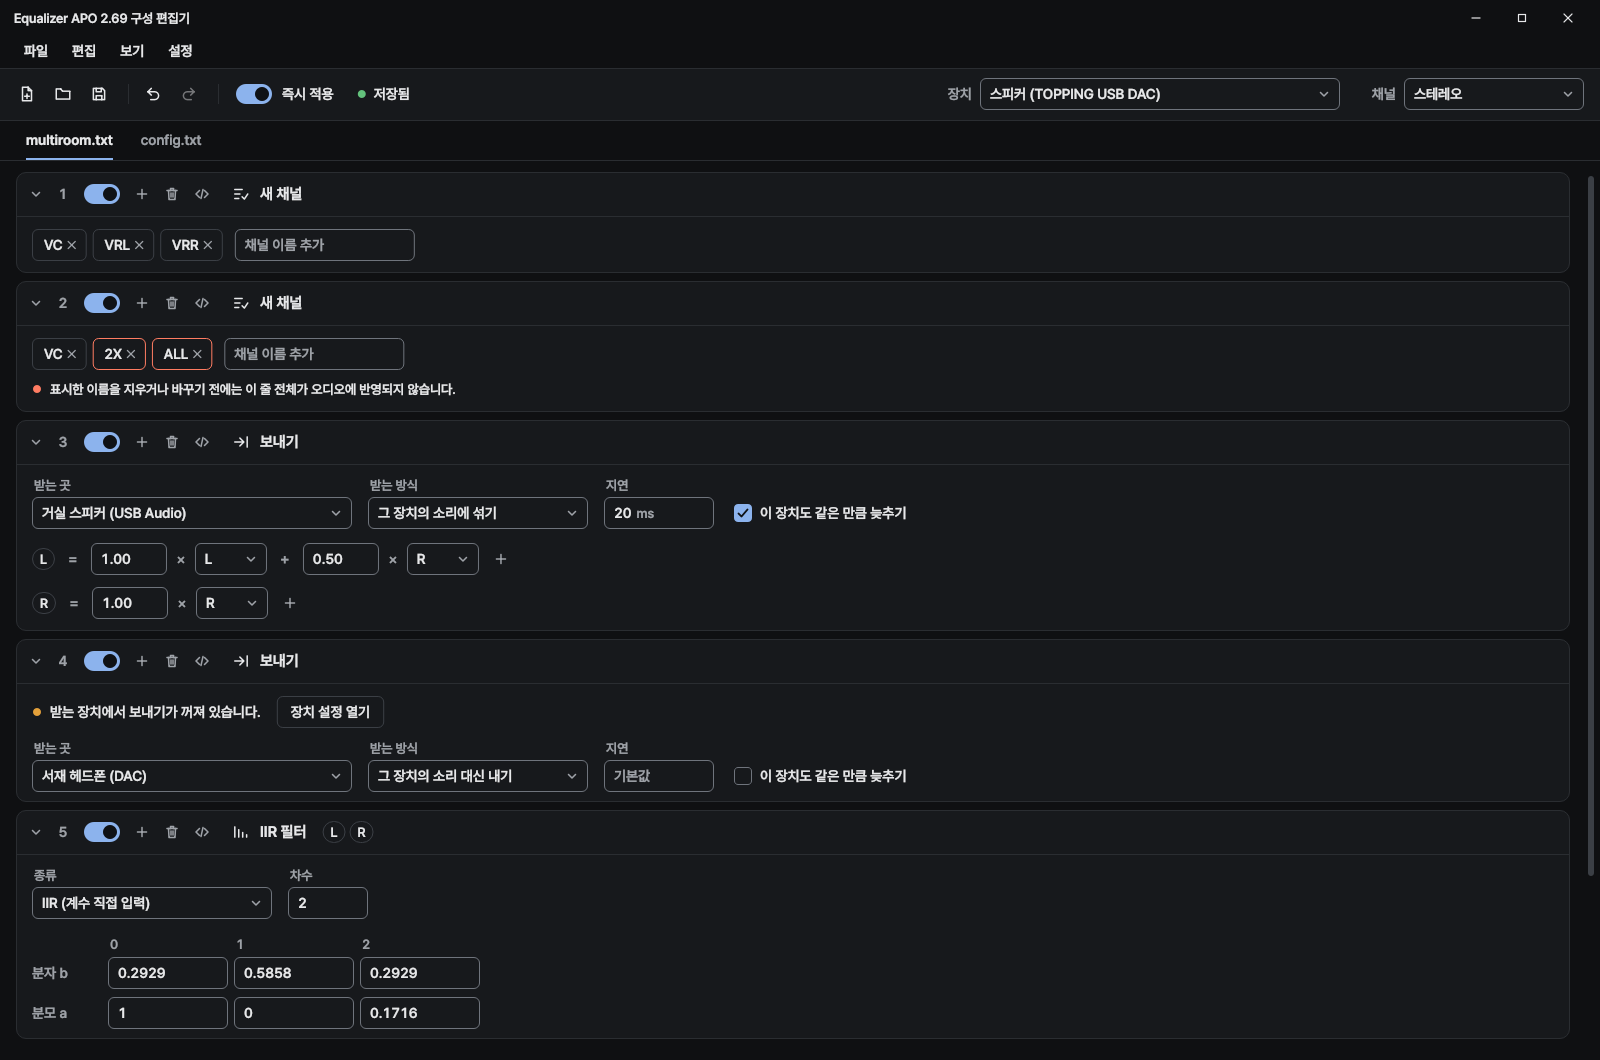
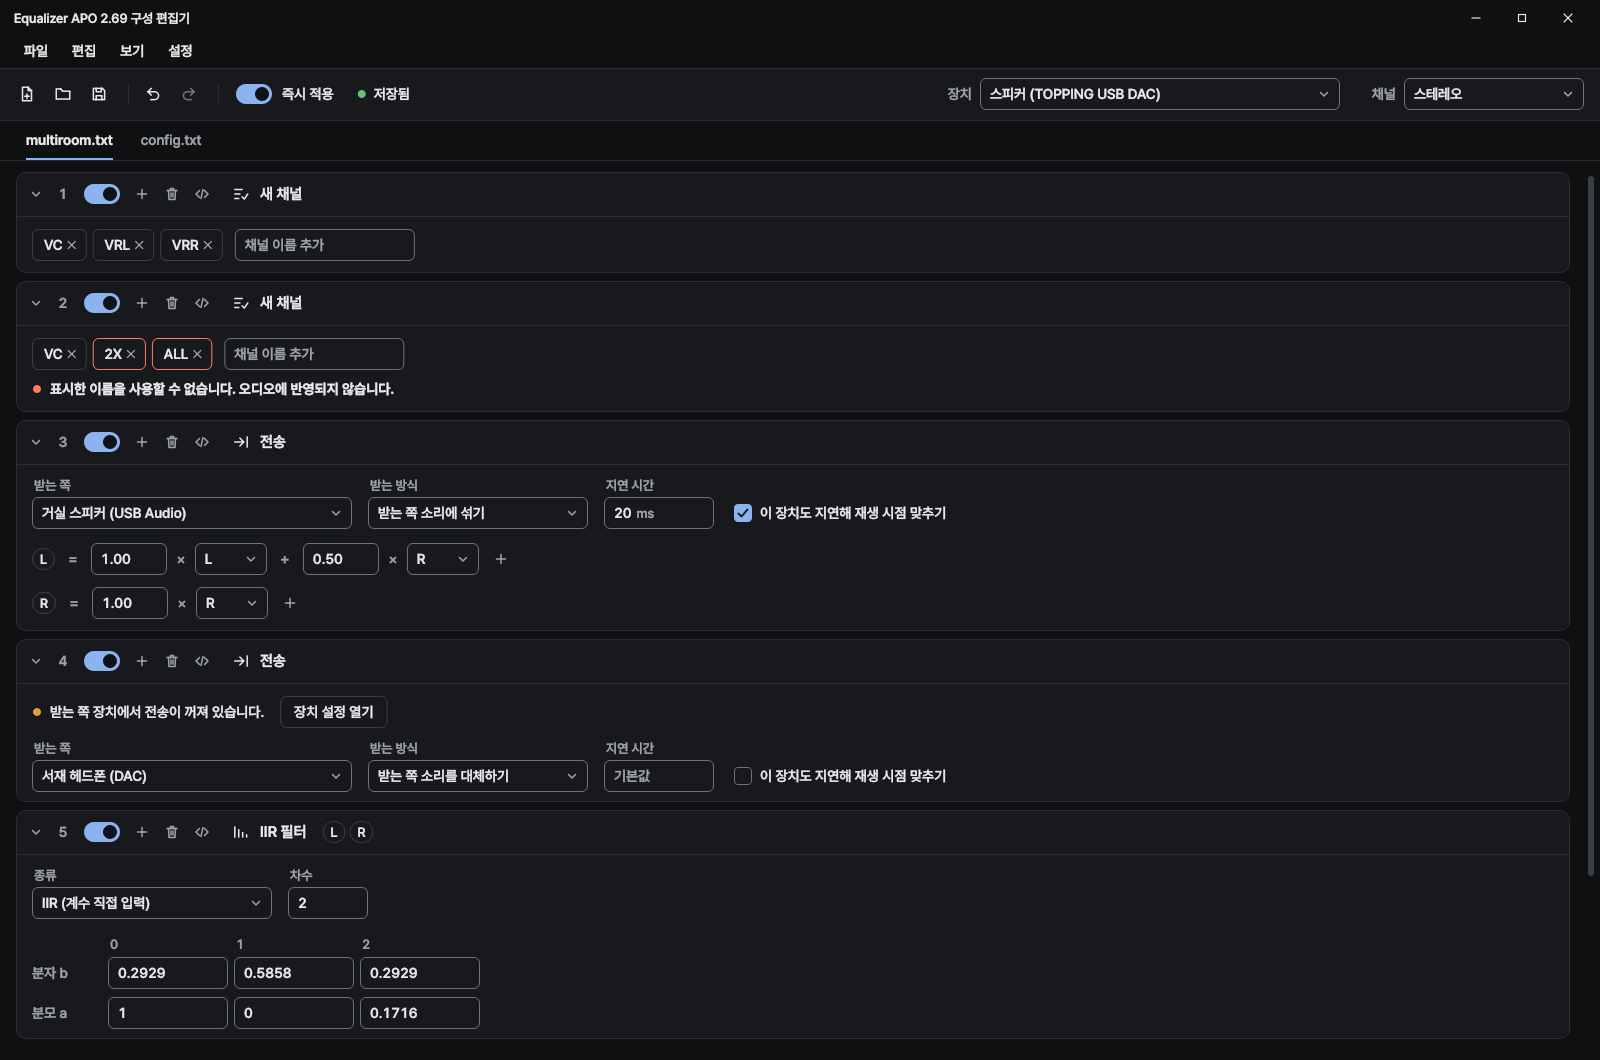
Soft mockup r1: Send card is titled 전송, plainer NewChannel warning

diff --git a/softmock.cpp b/softmock.cpp
@@ -1485,19 +1485,19 @@ static void labelOver(C& g, QPointF pos, const QString& s)
 static void sendControls(C& g, QPointF pos, const QString& to, const QString& mode, const QString& latency, bool compensate)
 {
 	double x = pos.x();
-	labelOver(g, QPointF(x, pos.y()), QStringLiteral("받는 곳"));
+	labelOver(g, QPointF(x, pos.y()), QStringLiteral("받는 쪽"));
 	g.select(QRectF(x, pos.y() + 22, 320, 32), to);
 	x += 320 + 16;
 	labelOver(g, QPointF(x, pos.y()), QStringLiteral("받는 방식"));
 	g.select(QRectF(x, pos.y() + 22, 220, 32), mode);
 	x += 220 + 16;
-	labelOver(g, QPointF(x, pos.y()), QStringLiteral("지연"));
+	labelOver(g, QPointF(x, pos.y()), QStringLiteral("지연 시간"));
 	if (latency.isEmpty())
 		placeholderField(g, QRectF(x, pos.y() + 22, 110, 32), QStringLiteral("기본값"));
 	else
 		g.field(QRectF(x, pos.y() + 22, 110, 32), latency, "ms");
 	x += 110 + 20;
-	g.checkbox(QPointF(x, pos.y() + 29), compensate, QStringLiteral("이 장치도 같은 만큼 늦추기"));
+	g.checkbox(QPointF(x, pos.y() + 29), compensate, QStringLiteral("이 장치도 지연해 재생 시점 맞추기"));
 }
 
 static void sceneMore(C& g)
@@ -1525,13 +1525,13 @@ static void sceneMore(C& g)
 		placeholderField(g, QRectF(x + 6, body.y() + 12, 180, 32), QStringLiteral("채널 이름 추가"));
 		g.lamp(QPointF(body.x() + 5, body.y() + 63), c.error);
 		g.text(QRectF(body.x() + 18, body.y() + 52, 1000, 22),
-			QStringLiteral("표시한 이름을 지우거나 바꾸기 전에는 이 줄 전체가 오디오에 반영되지 않습니다."), 13, 500, c.text);
+			QStringLiteral("표시한 이름을 사용할 수 없습니다. 오디오에 반영되지 않습니다."), 14, 700, c.text);
 		y += 131 + 8;
 	}
 	// 3: Send: where to, how it is received, the latency, and the routing
 	{
-		const QRectF body = card(g, QRectF(x0, y, w, 211), { 3, "send", QStringLiteral("보내기"), true, Rest, true, {} });
-		sendControls(g, QPointF(body.x(), body.y() + 10), QStringLiteral("거실 스피커 (USB Audio)"), QStringLiteral("그 장치의 소리에 섞기"), "20", true);
+		const QRectF body = card(g, QRectF(x0, y, w, 211), { 3, "send", QStringLiteral("전송"), true, Rest, true, {} });
+		sendControls(g, QPointF(body.x(), body.y() + 10), QStringLiteral("거실 스피커 (USB Audio)"), QStringLiteral("받는 쪽 소리에 섞기"), "20", true);
 		const QStringList outs = { "L", "R" };
 		const QList<QStringList> terms = { { "1.00", "L", "0.50", "R" }, { "1.00", "R" } };
 		for (int i = 0; i < 2; i++)
@@ -1561,12 +1561,12 @@ static void sceneMore(C& g)
 	}
 	// 4: Send to an endpoint that does not take what is sent
 	{
-		const QRectF body = card(g, QRectF(x0, y, w, 163), { 4, "send", QStringLiteral("보내기"), true, Rest, true, {} });
-		const QString why = QStringLiteral("받는 장치에서 보내기가 꺼져 있습니다.");
+		const QRectF body = card(g, QRectF(x0, y, w, 163), { 4, "send", QStringLiteral("전송"), true, Rest, true, {} });
+		const QString why = QStringLiteral("받는 쪽 장치에서 전송이 꺼져 있습니다.");
 		g.lamp(QPointF(body.x() + 5, body.y() + 28), c.warning);
 		g.text(QRectF(body.x() + 18, body.y() + 12, 1000, 32), why, 14, 500, c.text);
 		g.button(QPointF(body.x() + 18 + g.textW(why, 14) + 16, body.y() + 12), QStringLiteral("장치 설정 열기"));
-		sendControls(g, QPointF(body.x(), body.y() + 54), QStringLiteral("서재 헤드폰 (DAC)"), QStringLiteral("그 장치의 소리 대신 내기"), QString(), false);
+		sendControls(g, QPointF(body.x(), body.y() + 54), QStringLiteral("서재 헤드폰 (DAC)"), QStringLiteral("받는 쪽 소리를 대체하기"), QString(), false);
 		y += 163 + 8;
 	}
 	// 5: Filter ... IIR: the order and the two coefficient rows
